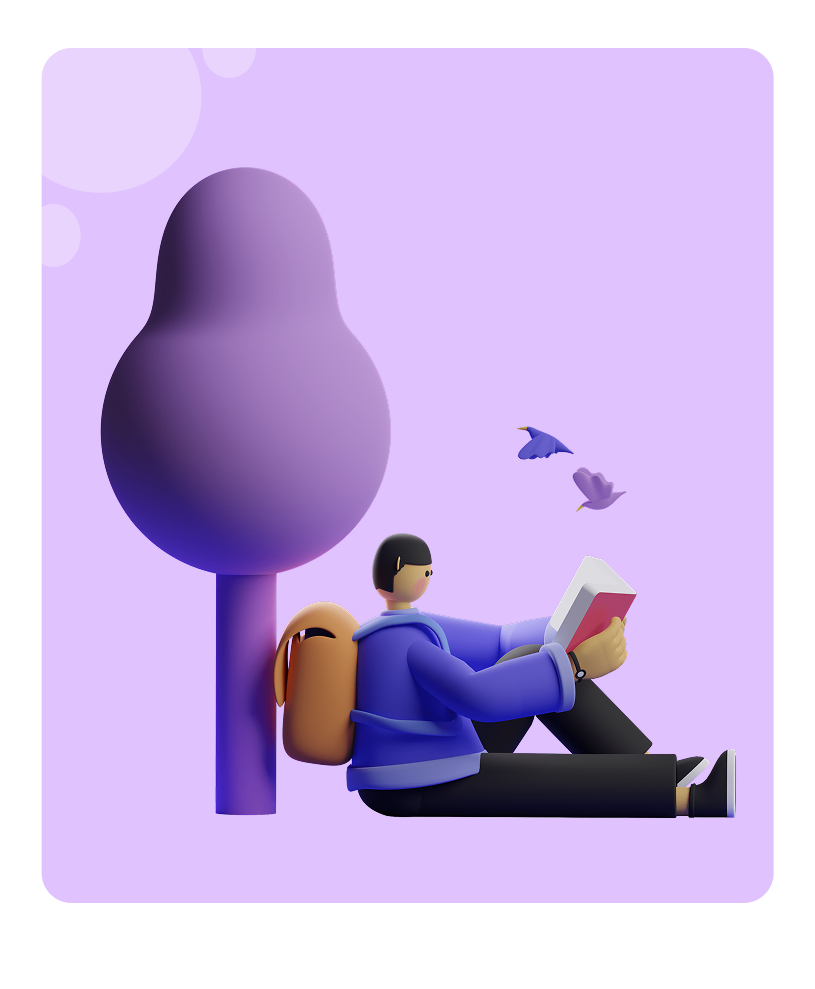
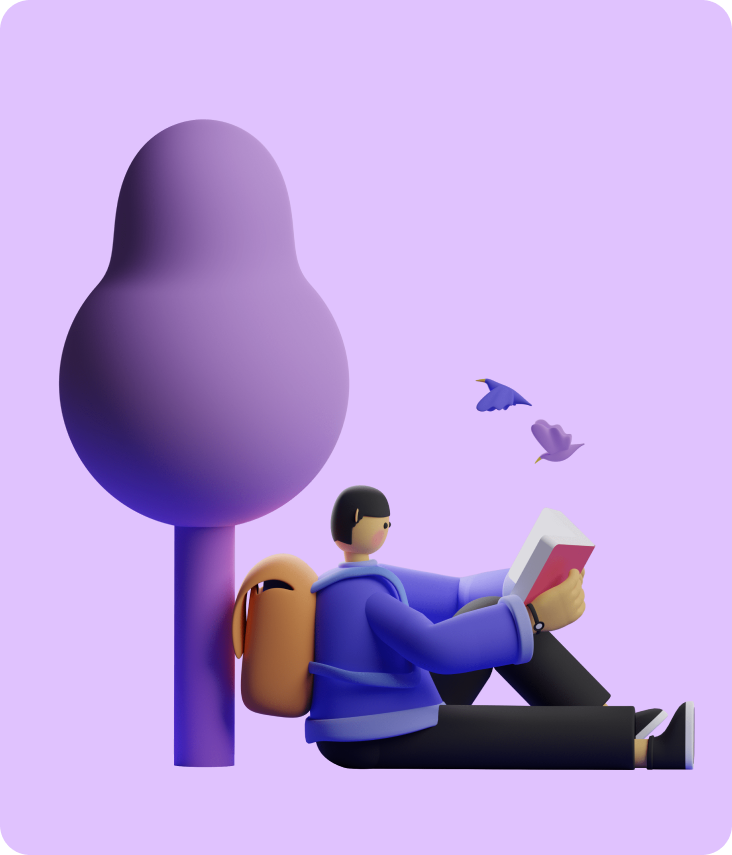
replace fonts, redesign home page

diff --git a/public/style.css b/public/style.css
@@ -95,40 +95,28 @@ textarea:not([rows]) {
 /* S T Y L E S   F O R   P R O J E C T*/
 
 /* Fonts */
-.poppins-regular {
-  font-family: "Poppins", sans-serif;
+.poly-regular {
+  font-family: "Poly", serif;
   font-weight: 400;
   font-style: normal;
 }
 
-.poppins-bold {
-  font-family: "Poppins", sans-serif;
-  font-weight: 700;
-  font-style: normal;
-}
-
-.unna-regular {
-  font-family: "Unna", serif;
-  font-weight: 400;
-  font-style: normal;
-}
-
-.unna-bold {
-  font-family: "Unna", serif;
-  font-weight: 700;
-  font-style: normal;
-}
-
-.unna-regular-italic {
-  font-family: "Unna", serif;
+.poly-regular-italic {
+  font-family: "Poly", serif;
   font-weight: 400;
   font-style: italic;
+}
+
+.ribeye-marrow-regular {
+  font-family: "Ribeye Marrow", serif;
+  font-weight: 400;
+  font-style: normal;
 }
 
 /* Body */
 body {
   background: linear-gradient(to bottom, #d6affe 0%, #9f7ad8 55%, #442256 100%);
-  font-family: "Poppins", sans-serif;
+  font-family: "Poly", serif;
   font-weight: 400;
   font-style: normal;
   font-size: 18px;
@@ -142,7 +130,6 @@ body {
 }
 
 /* App */
-
 .background-img {
   background-size: cover;
   background-position: center;
@@ -160,7 +147,7 @@ body {
   max-width: 1287px;
   width: 100%;
   margin: 0 auto;
-  padding: 20px;
+  padding: 30px;
   background-color: rgba(255, 255, 255, 0.8);
   display: flex;
   flex-direction: column;
@@ -183,10 +170,9 @@ body {
 
 .header {
   position: relative;
-  height: 60px;
+  height: 70px;
   display: flex;
   justify-content: space-between;
-  /* padding: 0 10px; */
   align-items: center;
 }
 
@@ -238,55 +224,85 @@ body {
   text-decoration: underline;
 }
 
-/* under header */
+/* home */
 .home-box {
   display: flex;
+  justify-content: space-between;
+  width: 100%;
+}
+
+.home-image-container,
+.home-content-container {
+  flex: 1;
+}
+
+.home-image-container {
+  height: 100%;
+  display: flex;
+  align-items: center;
+  justify-content: center;
+}
+
+.home-image-container > img {
+  width: 490px;
+  height: auto;
+  display: block;
+}
+
+.home-content-container {
+  max-width: 55%;
+  display: flex;
   flex-direction: column;
+  gap: 100px;
+  justify-content: center;
+  align-items: center;
+}
+
+.home-text {
+  display: flex;
+  flex-direction: column;
+  justify-content: center;
+  align-items: center;
   gap: 20px;
+  text-align: center;
 }
 
-.home-box > h1 {
-  font-family: "Unna", serif;
-  font-weight: 700;
-  color: #3b4261;
-  font-size: 42px;
-  margin: 0;
-}
-
-.home-box > h2 {
-  font-family: "Unna", serif;
+.home-text > h1 {
+  background: linear-gradient(to bottom, #9563c7 0%, #9f7ad8 55%, #442256 100%);
+  -webkit-background-clip: text;
+  background-clip: text;
+  color: transparent;
+  font-size: 28px;
   font-weight: 400;
-  font-style: italic;
-  color: #537cf7;
-  font-size: 20px;
-  letter-spacing: 1px;
   margin: 0;
 }
 
-.p-wrapper {
-  max-width: 800px;
-  background-color: #b1c2fe;
-  padding: 30px 40px;
-  border-radius: 20px;
-  align-self: center;
+.home-text > h2 {
+  font-family: "Ribeye Marrow", serif;
+  font-weight: 400;
+  background: linear-gradient(to bottom, #9563c7 0%, #9f7ad8 55%, #442256 100%);
+  -webkit-background-clip: text;
+  background-clip: text;
+  color: transparent;
+  font-size: 46px;
+  margin: 0 0 6px;
 }
 
-.p-wrapper > p {
-  color: #313340;
-  text-align: justify;
-  margin: 0;
-  letter-spacing: 1%;
-  line-height: auto;
+.home-text > span {
+  color: rgba(0, 0, 0, 0.4);
+  font-size: 24px;
+  font-weight: normal;
 }
 
 .home-box button {
-  background-color: #4e7df4;
-  border-radius: 60px;
-  padding: 20px 30px;
+  background: linear-gradient(to bottom, #d6affe 0%, #9f7ad8 55%, #442256 100%);
+  border-radius: 30px;
+  width: 192px;
+  height: 75px;
   outline: none;
   border: none;
   cursor: pointer;
-  font-size: 18px;
+  font-size: 26px;
   font-family: inherit;
   font-weight: inherit;
   color: white;
@@ -295,7 +311,10 @@ body {
 
 .main-content {
   position: relative;
-  margin: auto;
+  text-align: center;
+  display: flex;
+  flex-direction: column;
+  padding: 0 30px;
 }
 
 .loader-container {
@@ -310,15 +329,11 @@ body {
   justify-content: center;
 }
 
-.main-content {
-  text-align: center;
-}
-
 .main-content > h2 {
   font-family: "Unna", serif;
   font-weight: 700;
   color: #6586f8;
-  font-size: 30px;
+  font-size: 46px;
   margin: 0 0 30px;
 }
 

diff --git a/src/views/homeView.js b/src/views/homeView.js
@@ -12,17 +12,23 @@ import {
 export const createHomeElement = () => {
   const element = document.createElement("div");
   element.classList.add(CLASS_HOME_BOX);
-  element.innerHTML = String.raw`
-  <h1>Word a Day</h1>
-    <h2>Consistency matters more than speed</h2>
-    <div class="${CLASS_PARAGRAPH_WRAPPER}">
-      <p>Trying to learn English fast?</p>
-      <p>We often overestimate what we can do in a day and underestimate what we can achieve over time.</p>
-      <p>Learning one word a day is a small step — but over time, it leads to big results. Here, you're free to go at your own pace.</p>
-      <p>Learn one word a day — or as many as you like.</p>
-      <p>Ready to start?</p>
-      </div>
-      <button id="${START_LEARNING_BUTTON_ID}">Start learning</button>
+  element.innerHTML = String.raw`  
+  <div class="home-image-container">
+    <img src="./public/images/home_img.png" alt="home image" class="home-image"/>
+  </div>
+
+  <div class="home-content-container">
+   <div class="home-text"> 
+    <h1>EXPLORE THE WORLD OF</h1>  
+    <h2>ENGLISH</h2>
+    <span>through daily word discovery</span>
+   </div>
+   
+    <button id="${START_LEARNING_BUTTON_ID}">START</button>
+    </div>
+ 
+
+   
   `;
   return element;
 };

diff --git a/index.html b/index.html
@@ -5,11 +5,11 @@
     <meta name="viewport" content="width=device-width, initial-scale=1.0" />
     <title>Word a day</title>
     <link
-      href="https://fonts.googleapis.com/css2?family=Poppins:wght@400;700&display=swap"
+      href="https://fonts.googleapis.com/css2?family=Poly:ital@0;1&display=swap"
       rel="stylesheet"
     />
     <link
-      href="https://fonts.googleapis.com/css2?family=Unna:ital,wght@0,400;0,700;1,400&display=swap"
+      href="https://fonts.googleapis.com/css2?family=Ribeye+Marrow&display=swap"
       rel="stylesheet"
     />
 
